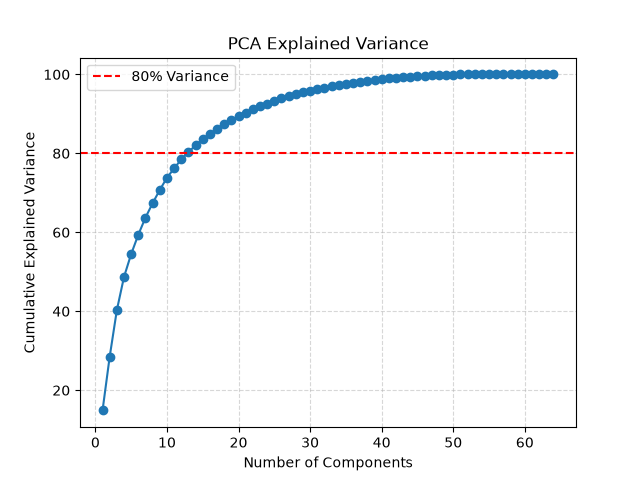
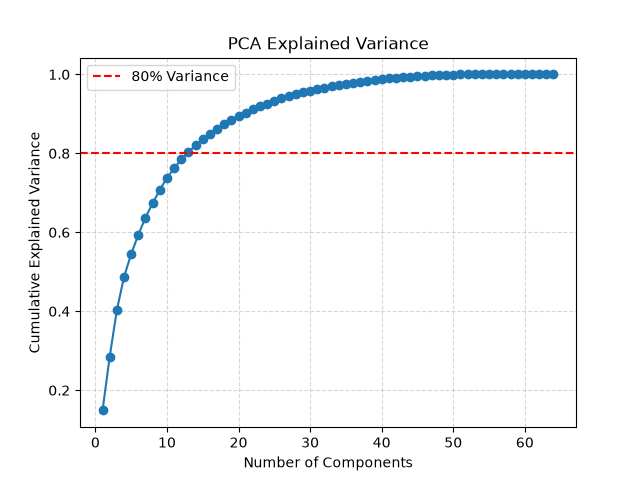
Made changes per feedback

Changed region(s): [[0.0312, 0.2812, 0.125, 0.75], [0.0625, 0.7812, 0.125, 0.8438], [0.0625, 0.125, 0.0938, 0.1875]]

diff --git a/assignments_03/warmup_03.py b/assignments_03/warmup_03.py
@@ -133,6 +133,10 @@ print("Accuracy for KNN:", f"{accuracy_score(y_test, preds_unscaled):.4f}")
 # Q1
 values = [0.01, 1.0, 100]
 
+# Can't use "logistic regression" directly for multi-class classification, 
+# so I use "OneVsRestClassifier"to handle the multi-class case or there will be
+# an error at run-time.
+
 for c in values:
     log_reg = OneVsRestClassifier(
         LogisticRegression(
@@ -142,7 +146,8 @@ for c in values:
         )
     )
     log_reg.fit(X_train_scaled, y_train)
-    print(f"Total size with C={c}: ", np.abs(np.vstack([est.coef_ for est in log_reg.estimators_])).sum())
+    print("Total size with C(0.01, 1.0, 100):")
+    print(np.abs(np.vstack([est.coef_ for est in log_reg.estimators_])).sum())
 
 
 # --- PCA ---
@@ -192,20 +197,20 @@ plt.show()
 
 # Q3
 
-cumula_variance = np.cumsum(pca.explained_variance_ratio_ * 100)
+cumula_variance = np.cumsum(pca.explained_variance_ratio_)
 
 plt.plot(range(1, len(cumula_variance) + 1), cumula_variance, marker='o')
 plt.xlabel("Number of Components")
 plt.ylabel("Cumulative Explained Variance")
 plt.title("PCA Explained Variance")
 plt.grid(True, linestyle='--', alpha=0.5)
-plt.axhline(y=80, color='red', linestyle='--', label='80% Variance')
+plt.axhline(y=0.8, color='red', linestyle='--', label='80% Variance')
 plt.legend()
 plt.savefig("outputs/pca_variance_explained.png")
 plt.show()
 
 # Approximately 13 components are needed to explain 80% of the variance in the digits dataset, 
-# as indicated by the point where the cumulative explained variance curve crosses the 80% line.
+# as indicated by the point where the cumulative explained variance curve crosses the 0.8 line.
 
 # Q4
 

diff --git a/assignments_03/project_03.py b/assignments_03/project_03.py
@@ -169,7 +169,7 @@ plt.grid(True, linestyle='--', alpha=0.5)
 plt.axhline(y=90, color='red', linestyle='--', label='90% Variance')
 plt.legend()
 plt.tight_layout()
-plt.savefig("outputs/pca_variance_explained_email.png")
+plt.savefig("outputs/pca_variance_explained_90.png")
 plt.show()
 plt.close()
 
